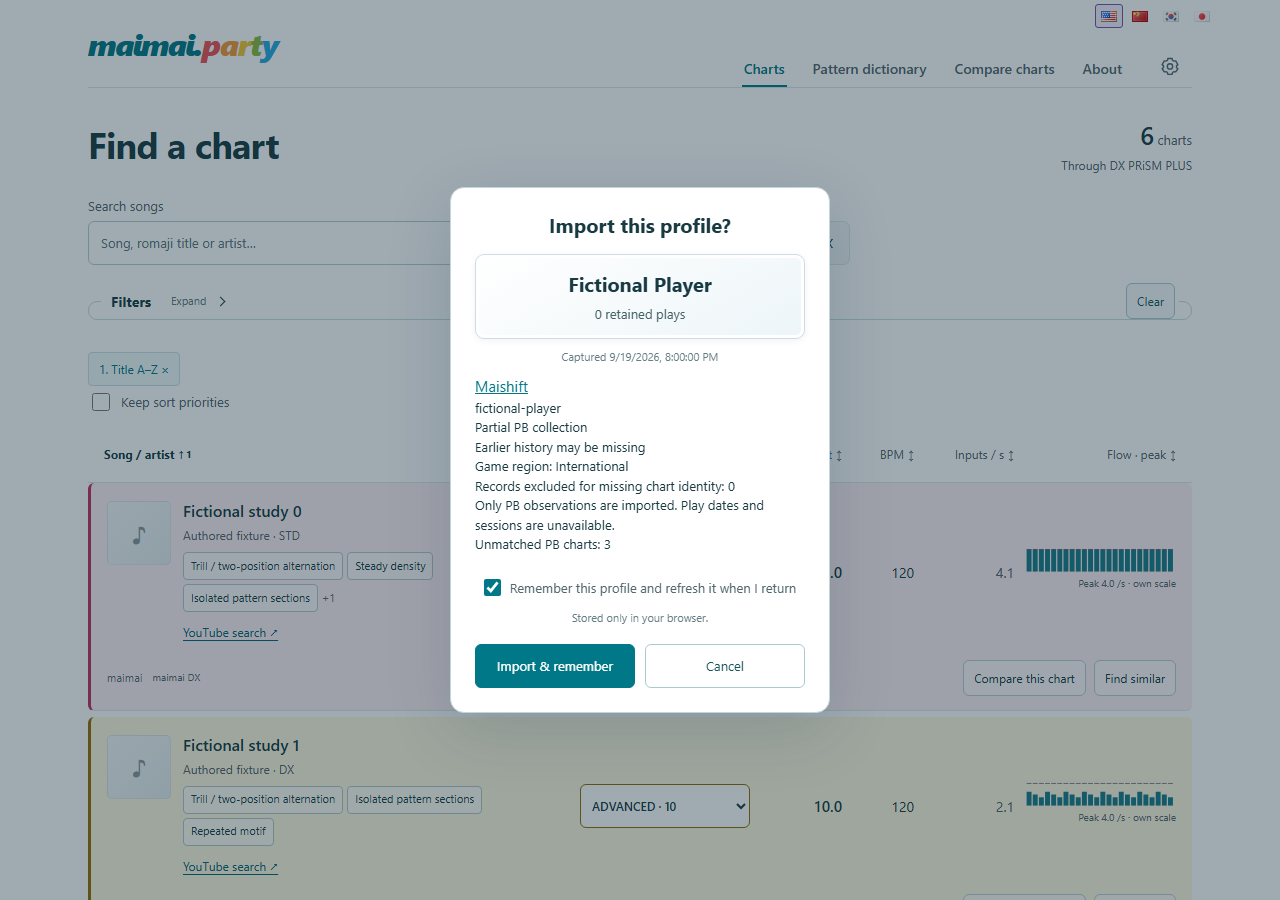
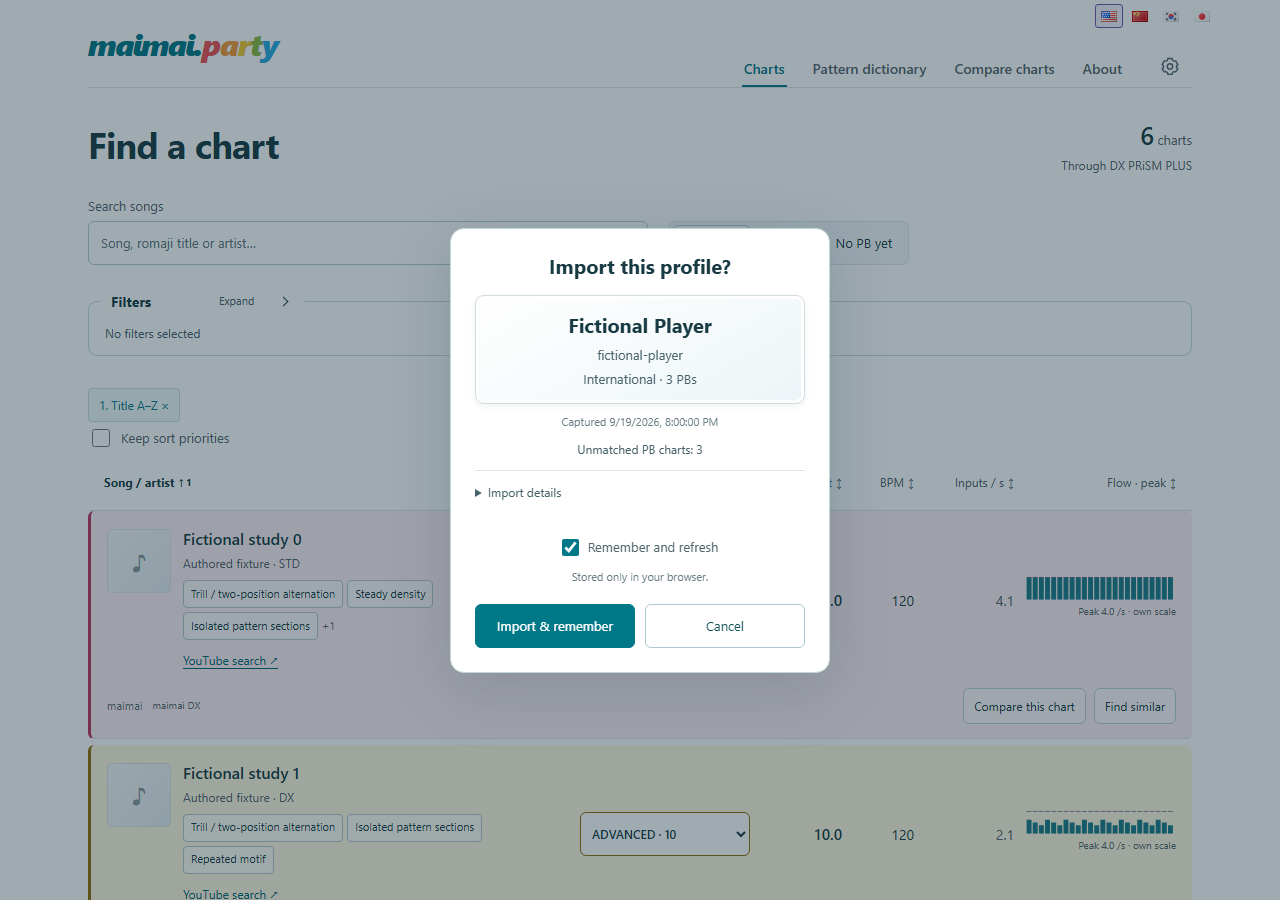
Simplify import previews and hide secondary details

diff --git a/src/maimai_intelligence/assets/player-data.js b/src/maimai_intelligence/assets/player-data.js
@@ -52,6 +52,7 @@ function profileCard(offer){
     if(rating<=99999)for(const digit of String(rating).padStart(5,' '))digits.append(make('span',digit===' '?'':digit));else i18n.text(digits, String(rating));
     badge.append(digits);card.append(badge,make('small','Reconstructed rating','player-profile-rating-label'));
   }
+  if(offer.player.provider==='maishift'){card.append(make('span',i18n.verbatim(offer.player.username),'player-profile-history'),make('span',window.maimaiI18n.message(offer.player.key.split(':')[2]==='jp'?'Japan · {0} PBs':'International · {0} PBs',[offer.pbCount.toLocaleString()]),'player-profile-history'));return card;}
   const count=offer.profile?.sessionCount;
   card.append(make('span',count?`${count.toLocaleString()} retained ${count===1?'session':'sessions'}`:`${offer.playCount.toLocaleString()} retained ${offer.playCount===1?'play':'plays'}`,'player-profile-history'));
   return card;
@@ -60,10 +61,15 @@ function ask(offer,{file=false,stale=false,connection=null,rememberDefault=true,
   if(stale)dialog.append(make('p','The hosted update was unavailable. This is the snapshot saved in the report.'));
   if(active&&active.player.key!==offer.player.key)dialog.append(make('p','This switches the active player. Different players’ records will not be combined.'));
   if(active&&active.player.key===offer.player.key&&core.offer(active).capturedAt>offer.capturedAt)dialog.append(make('p','Your newer results will be kept. This adds any missing retained history.'));
-  if(connection)dialog.append(external(connection.type==='maishift'?'Maishift':'Session Report',connection.url),make('p',i18n.verbatim(offer.player.username)),make('p',offer.pbCoverage==='complete'?'Complete PB snapshot':'Partial PB collection'),make('p','Earlier history may be missing'));
-  if(connection?.type==='maishift')dialog.append(make('p',connection.region==='jp'?'Game region: Japan':'Game region: International'),make('p',window.maimaiI18n.message('Records excluded for missing chart identity: {0}',[String(connection.diagnosticCount)])),make('p','Only PB observations are imported. Play dates and sessions are unavailable.'));
-  if(unmatched!==null)dialog.append(make('p',window.maimaiI18n.message('Unmatched PB charts: {0}',[String(unmatched)])));
-  const label=make('label',undefined,'player-remember'),check=make('input');check.type='checkbox';check.checked=connection?rememberDefault:remembered&&active?.player.key===offer.player.key;label.append(check,make('span',connection?'Remember this profile and refresh it when I return':'Remember on this device'));dialog.append(label,make('p','Stored only in your browser.','player-import-privacy'));
+  if(connection){
+    if(unmatched>0)dialog.append(make('p',window.maimaiI18n.message('Unmatched PB charts: {0}',[String(unmatched)]),'player-import-warning'));
+    if(connection.diagnosticCount>0)dialog.append(make('p',window.maimaiI18n.message('Records excluded for missing chart identity: {0}',[String(connection.diagnosticCount)]),'player-import-warning'));
+    const details=make('details',undefined,'player-import-details');details.append(make('summary','Import details'),external(connection.type==='maishift'?'Maishift':'Session Report',connection.url),make('p',offer.pbCoverage==='complete'?'Complete PB snapshot':'Partial PB collection'));
+    if(connection.type==='maishift')details.append(make('p','Only PB observations are imported. Play dates and sessions are unavailable.'),make('p','Your Maishift profile must be public. Party’s import service reads it when you import or refresh; scores are stored in your browser.'));
+    else details.append(make('p',i18n.verbatim(offer.player.username)),make('p','Earlier history may be missing'));
+    dialog.append(details);
+  }
+  const label=make('label',undefined,'player-remember'),check=make('input');check.type='checkbox';check.checked=connection?rememberDefault:remembered&&active?.player.key===offer.player.key;label.append(check,make('span',connection?'Remember and refresh':'Remember on this device'));dialog.append(label,make('p','Stored only in your browser.','player-import-privacy'));
   const actions=make('div',undefined,'player-actions'),yes=make('button','Import data'),no=make('button',file?'Cancel':'Not now');actions.append(yes,no);dialog.append(actions);
   if(connection){const label=()=>i18n.text(yes,check.checked?'Import & remember':'Import once');check.onchange=label;label();}
   let finished=false;function finish(accept){if(finished)return;finished=true;cancelConsent=null;dialog.removeEventListener('cancel',cancel);dialog.close();resolve({accept,remember:check.checked});}function cancel(e){e.preventDefault();finish(false);}cancelConsent=()=>finish(false);dialog.addEventListener('cancel',cancel);yes.onclick=()=>finish(true);no.onclick=()=>finish(false);if(!dialog.open)dialog.showModal();yes.focus();
@@ -110,14 +116,14 @@ async function selectSource(){
     else if(selected==='maishift'){
       const label=make('label','Maishift handle or profile URL'),url=make('input');url.type='text';url.id='player-maishift-url';url.autocomplete='off';url.spellcheck=false;url.maxLength=2048;url.value=source?.type==='maishift'?source.url:'';label.append(url);
       const regionLabel=make('label','Game region'),region=make('select');region.append(i18n.option('International','intl'),i18n.option('Japan','jp'));region.value=source?.region||'intl';regionLabel.append(region);
-      const remember=make('label',undefined,'player-remember'),check=make('input');check.type='checkbox';check.checked=rememberChoice;check.onchange=()=>rememberChoice=check.checked;remember.append(check,make('span','Remember this profile and refresh it when I return'));
-      fields.append(label,regionLabel,make('p','Your Maishift profile must be public. Party’s import service reads it when you import or refresh; scores are stored in your browser.'),remember);
+      const remember=make('label',undefined,'player-remember'),check=make('input');check.type='checkbox';check.checked=rememberChoice;check.onchange=()=>rememberChoice=check.checked;remember.append(check,make('span','Remember and refresh'));
+      fields.append(label,regionLabel,make('p','Public profiles only. Party reads your scores; saving stays in your browser.'),remember);
       next.onclick=()=>{let selected;try{selected=window.maimaiPlayerMaishift.location(url.value,region.value);}catch(e){message('Player data could not be imported',e.message);return;}importReport(selected,rememberChoice);};
     }
     else{
       const label=make('label','Hosted Session Report URL'),url=make('input');url.type='url';url.id='player-report-url';url.autocomplete='off';url.spellcheck=false;url.maxLength=2048;url.value=source?.type==='report'?source.url:'';label.append(url);
-      const remember=make('label',undefined,'player-remember'),check=make('input');check.type='checkbox';check.checked=rememberChoice;check.onchange=()=>rememberChoice=check.checked;remember.append(check,make('span','Remember this profile and refresh it when I return'));
-      fields.append(label,make('p','Public reports can refresh automatically. Reports that require sign-in use Open in Party from the report.'),remember,external('Session Report guide','https://github.com/arussin/maimai-session-report/blob/main/docs/PLAYER_FILE.md'));
+      const remember=make('label',undefined,'player-remember'),check=make('input');check.type='checkbox';check.checked=rememberChoice;check.onchange=()=>rememberChoice=check.checked;remember.append(check,make('span','Remember and refresh'));
+      fields.append(label,make('p','For private reports, use Open in Party from your report.'),remember,external('Session Report guide','https://github.com/arussin/maimai-session-report/blob/main/docs/PLAYER_FILE.md'));
       next.onclick=()=>importReport(url.value,rememberChoice);
     }
   }

diff --git a/tests/browser/player-maishift.spec.js b/tests/browser/player-maishift.spec.js
@@ -31,11 +31,12 @@ test('proxy preview has explicit consent, region, precision and unmatched covera
   const state=await prepare(context);await boot(page);
   await page.evaluate(()=>{window.requests=[];const original=fetch;window.fetch=(url,options)=>{if(String(url).includes('/api/player-import/'))requests.push({url:String(url),...options});return original(url,options);};});
   await open(page);await page.locator('input[value=maishift]').check();expect(state.calls).toBe(0);
-  await expect(page.getByLabel('Remember this profile and refresh it when I return')).toBeChecked();
+  await expect(page.getByLabel('Remember and refresh')).toBeChecked();
   await page.locator('#player-maishift-url').fill('fictional-player');await page.getByRole('button',{name:'Continue',exact:true}).click();
-  await expect(page.locator('.player-dialog')).toContainText('Game region: International');await expect(page.locator('.player-dialog')).toContainText('Unmatched PB charts: 3');
+  await expect(page.locator('.player-dialog')).toContainText('International · 3 PBs');await expect(page.locator('.player-dialog')).toContainText('Unmatched PB charts: 3');
   await expect(page.getByRole('button',{name:'Import & remember',exact:true})).toBeVisible();expect((await saved(page)).active).toBeNull();
-  await page.screenshot({path:testInfo.outputPath('maishift-fictional-preview.png')});
+  await expect(page.locator('.player-import-details')).not.toHaveAttribute('open');await expect(page.getByText('Only PB observations are imported. Play dates and sessions are unavailable.',{exact:true})).not.toBeVisible();await page.screenshot({path:testInfo.outputPath('maishift-fictional-preview.png')});
+  await page.getByText('Import details',{exact:true}).click();await expect(page.getByText('Only PB observations are imported. Play dates and sessions are unavailable.',{exact:true})).toBeVisible();await page.getByText('Import details',{exact:true}).click();
   await page.getByRole('button',{name:'Import & remember',exact:true}).click();await expect.poll(async()=>!!(await saved(page)).active).toBe(true);
   const source=(await saved(page)).active.source;expect(source.type).toBe('maishift');expect(source.region).toBe('intl');expect(source.autoRefresh).toBe(true);
   const options=await page.evaluate(()=>requests[0]);expect(options.url).toBe(PATH);expect(options.credentials).toBe('omit');expect(options.referrerPolicy).toBe('no-referrer');expect(page.url()).not.toContain('fictional-player');
@@ -67,6 +68,6 @@ test('newer file import invalidates an outstanding proxy refresh',async({page,co
   const fixture=JSON.parse(await readFile(new URL('../../output/reconciliation-fixture.json',import.meta.url),'utf8'));const bytes=gzipSync(Buffer.from(JSON.stringify(await page.evaluate(d=>maimaiPlayerData.reconcile(d),fixture))));
   await page.locator('input[type=file]').setInputFiles({name:'fictional.gz',mimeType:'application/gzip',buffer:bytes});await expect(page.getByRole('heading',{name:'Import this profile?',exact:true})).toBeVisible();await page.getByRole('button',{name:'Import data',exact:true}).click();release();await expect(page.locator('#player-refresh')).toBeHidden();await expect(page.locator('#player-status')).not.toContainText('Fictional Player');
 });
-for(const [locale,region,excluded] of [['en','Game region: International','Records excluded for missing chart identity: 1'],['zh-Hans','游戏区域：国际版','因缺少谱面标识而排除的记录：1'],['ko','게임 지역: 국제판','채보 식별 정보가 없어 제외된 기록: 1'],['ja','ゲーム地域：海外版','譜面の識別情報がないため除外された記録：1']])test(`localized Maishift preview ${locale} fits narrow screens and supports keyboard cancellation`,async({page,context})=>{
+for(const [locale,region,excluded] of [['en','International · 3 PBs','Records excluded for missing chart identity: 1'],['zh-Hans','国际版 · 3 项个人最佳成绩','因缺少谱面标识而排除的记录：1'],['ko','국제판 · 개인 최고 기록 3개','채보 식별 정보가 없어 제외된 기록: 1'],['ja','海外版 · 自己ベスト 3件','譜面の識別情報がないため除外された記録：1']])test(`localized Maishift preview ${locale} fits narrow screens and supports keyboard cancellation`,async({page,context})=>{
   const state=await prepare(context,{locale});state.tracks.tracks.push({s:9000,r:{a:987654}});await boot(page);await preview(page);await expect(page.locator('.player-dialog')).toContainText(region);await expect(page.locator('.player-dialog')).toContainText(excluded);expect(await page.evaluate(()=>document.documentElement.scrollWidth<=innerWidth+1)).toBe(true);await page.keyboard.press('Escape');await expect(page.locator('.player-dialog')).not.toBeVisible();expect((await saved(page)).active).toBeNull();
 });

diff --git a/tests/browser/player-sources.spec.js b/tests/browser/player-sources.spec.js
@@ -14,7 +14,7 @@ async function mock(context,page,data,{status=200,html=false,delay=null}={}){
   });
 }
 async function openImport(page){await page.locator('#settings-toggle').click();await page.locator('#player-import').click();}
-async function importReport(page,remember=true){await openImport(page);await page.getByLabel('Hosted Session Report',{exact:true}).check();await page.getByLabel('Hosted Session Report URL',{exact:true}).fill(manifest);await page.getByLabel('Remember this profile and refresh it when I return').setChecked(remember);await page.getByRole('button',{name:'Continue',exact:true}).click();await page.getByRole('button',{name:remember?'Import & remember':'Import once',exact:true}).click();await expect.poll(()=>page.evaluate(()=>maimaiPersonal.enabled())).toBe(true);if(remember)await expect.poll(async()=>!!(await saved(page)).active?.source).toBe(true);}
+async function importReport(page,remember=true){await openImport(page);await page.getByLabel('Hosted Session Report',{exact:true}).check();await page.getByLabel('Hosted Session Report URL',{exact:true}).fill(manifest);await page.getByLabel('Remember and refresh').setChecked(remember);await page.getByRole('button',{name:'Continue',exact:true}).click();await page.getByRole('button',{name:remember?'Import & remember':'Import once',exact:true}).click();await expect.poll(()=>page.evaluate(()=>maimaiPersonal.enabled())).toBe(true);if(remember)await expect.poll(async()=>!!(await saved(page)).active?.source).toBe(true);}
 async function saved(page){return page.evaluate(()=>maimaiPlayerStorage.read());}
 async function age(page){await page.evaluate(async()=>{const db=await new Promise(resolve=>{const q=indexedDB.open('maimai-player-data',2);q.onsuccess=()=>resolve(q.result);});await new Promise((resolve,reject)=>{const t=db.transaction('datasets','readwrite'),s=t.objectStore('datasets'),q=s.get('active');q.onsuccess=()=>s.put({...q.result,source:{...q.result.source,lastAttempt:0}},'active');t.oncomplete=resolve;t.onabort=reject;});db.close();});}
 

diff --git a/src/maimai_intelligence/assets/player-data.css b/src/maimai_intelligence/assets/player-data.css
@@ -14,3 +14,4 @@
 
 /* Separate achievement from chart rating without increasing the results row height. */
 .player-score{display:inline-flex;align-items:center;gap:8px;white-space:nowrap}.player-achievement strong.player-achievement-value{display:inline-block;color:#994510;text-shadow:0 1px #fff8e8;letter-spacing:-.25px}.player-achievement-decimal{font-size:14px}.player-score-unit{font-size:10px;font-weight:650;letter-spacing:.02em}.player-achievement-value .player-score-unit{margin-left:1px}.player-achievement strong.player-chart-rating{display:inline-flex;align-items:baseline;gap:5px;line-height:1.2;white-space:nowrap;letter-spacing:0;padding:3px 7px;border:1px solid #b5d9d8;border-radius:6px;background:#eaf6f5;color:#15575c;box-shadow:inset 0 1px #ffffffb3}.player-chart-rating .player-score-unit{color:#496e73}
+.player-import-details{margin-top:12px;color:#466269;font-size:12px}.player-import-details summary{cursor:pointer;min-height:36px;display:list-item;align-content:center}.player-import-details summary:focus-visible{outline:3px solid #007887;outline-offset:2px}.player-dialog .player-import-warning{margin:6px 0;font-size:12px;text-align:center;color:#466269}
